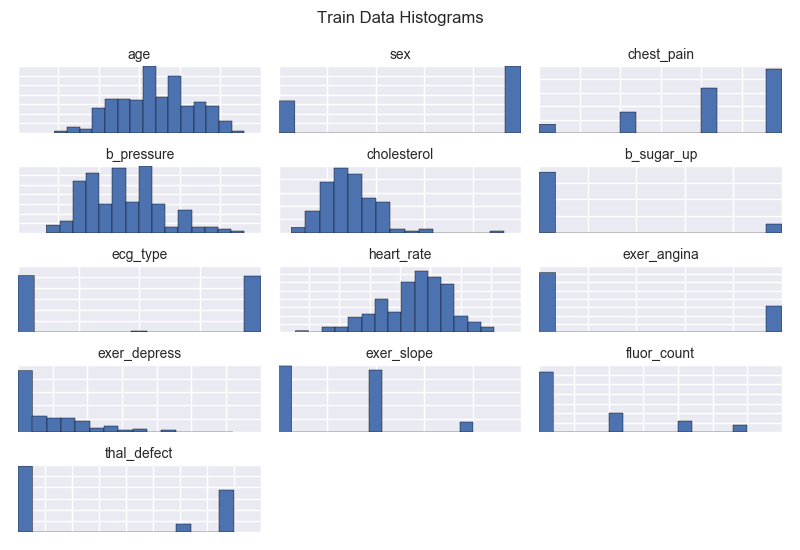
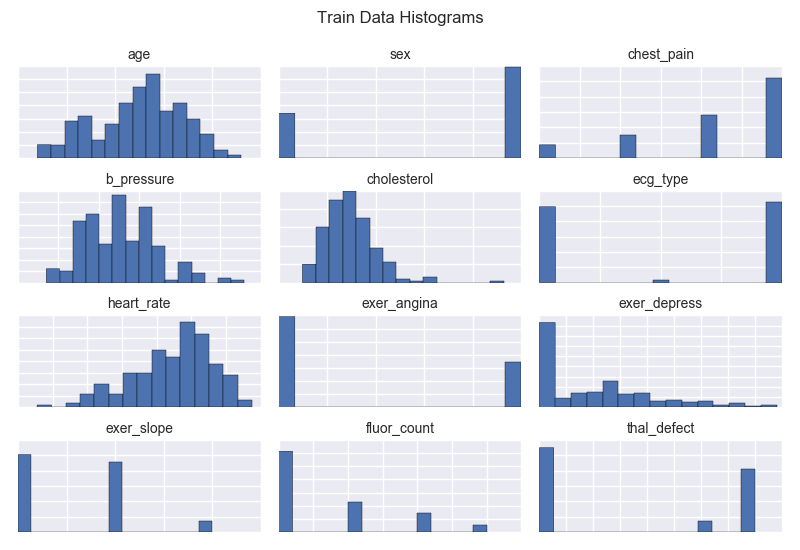
remove high stddev col, use f1 scoring

diff --git a/coronary_predict.py b/coronary_predict.py
@@ -64,6 +64,15 @@ def load_data(name, plotdir, print_out=True):
         print("test head\n%s" % (test[:3]))
         print("train_y set %s, test_y set %s" % (set(train_y['Y']), set(test_y['Y'])))
         print("train_y stats\n%s\ntest_y stats\n%s" % (train_y.describe(), test_y.describe()))
+
+    drop_col = ['b_sugar_up']
+    print('dropping high std/mean columns', drop_col)
+    train = train.drop(drop_col, axis=1)
+    test  = test.drop(drop_col, axis=1)
+#   drop_col = ['age','exer_slope']
+#   print('dropping low importance columns', drop_col)
+#   train = train.drop(drop_col, axis=1)
+#   test  = test.drop(drop_col, axis=1)
     return train, test, train_y, test_y
 
 def scale_data(train_X, test_X, print_out=False):
@@ -130,7 +139,8 @@ def fit_predict(clf, train_X, train_y, test_X, test_y, label='x'):
 
 def cross_validate(clf, train_X, train_y, cv=5, print_out=False):
     "Cross-validate fit scores.  Dataset is too small to be very reliable though."
-    scores = cross_val_score(clf, train_X, train_y, cv=cv)
+    scores = cross_val_score(clf, train_X, train_y, cv=cv, scoring='f1')
+# scoring = 'accuracy' | 'f1' | 'precision' | 'recall'
     score = scores.mean()
     score_std = scores.std()
     if print_out:
